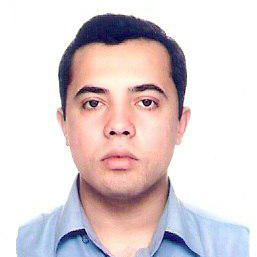
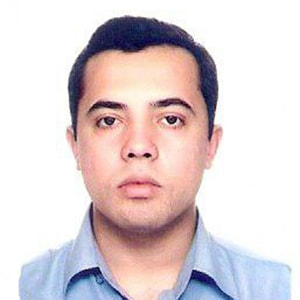
Compressão de images

diff --git a/index.html b/index.html
@@ -25,7 +25,7 @@
                         <li><a class="active" href="#">Home</a></li>
                         <li><a href="#equipe">Equipe</a></li>
                         <li><a href="doc.html">Docs & Tools</a></li>
-                        <li><a href="#" class="waves-effect waves-light btn-large k-cian-darken font-semibold hide-on-small-only">DOWNLOAD EM BREVE</a></li>
+                        <li><a href="#" class="waves-effect waves-light btn-large k-cian-darken font-semibold hide-on-small-only">DOWNLOAD</a></li>
                     </ul>
                 </div>
             </nav>
@@ -52,7 +52,7 @@
                         Primeiro sistema operacional voltado ao ensino de segurança da informação, 
                         focado em você, aluno de TI, pensado e criado para se enquadrar em seus estudos!
                     </p>
-                    <a class="waves-effect waves-light btn btn-k k-cian-darken font-bold hoverable disabled">DOWNLOAD EM BREVE</a>
+                    <a class="waves-effect waves-light btn btn-k k-cian-darken font-bold hoverable">DOWNLOAD</a>
                 </div>
                 <div class="col hide-on-small-only m5">
                     <img class="responsive-img" src="img/curupira.png">
@@ -128,8 +128,8 @@
                         <a href="https://github.com/unamecorporation" class="btn-large btn-k k-red font-semibold" target="_blank">
                             <i class="mdi mdi-github-box"></i> GITHUB
                         </a>
-                        <a href="" class="btn-large btn-k k-cian-darken font-bold disabled">
-                            <i class="mdi mdi-file-document"></i> DOCUMENTAÇÃO EM BREVE
+                        <a href="" class="btn-large btn-k k-cian-darken font-bold">
+                            <i class="mdi mdi-file-document"></i> DOCUMENTAÇÃO
                         </a>
                     </div>
                 </div>
@@ -207,7 +207,7 @@
 
                     </div>
                     <div class="col s6 m3"> <!-- Tristão -->
-                        <img class="circle responsive-img z-depth-2" src="img/equipe/ricardo.png">
+                        <img class="circle responsive-img z-depth-2" src="img/equipe/ricardo.jpg">
                         <h5 class="k-cian-darken-text font-bold">
                             Ricardo Porfirio<br>
                             <spam class="font-thin">Tristão</spam>
@@ -302,7 +302,7 @@
 
                     </div>
                     <div class="col s6 m3"> <!-- Luigi -->
-                        <img class="circle responsive-img z-depth-2" src="img/equipe/luigi.png">
+                        <img class="circle responsive-img z-depth-2" src="img/equipe/luigi.jpg">
                         <h5 class="k-cian-darken-text font-bold">
                             Guilherme Luigi<br>
                             <spam class="font-thin">Luigieiro</spam>
